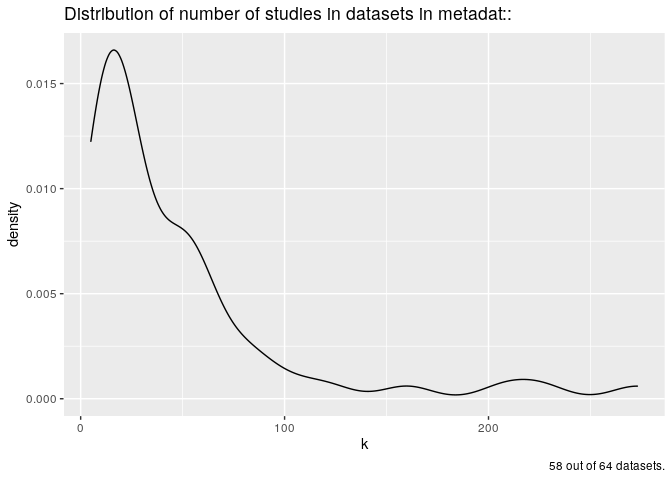
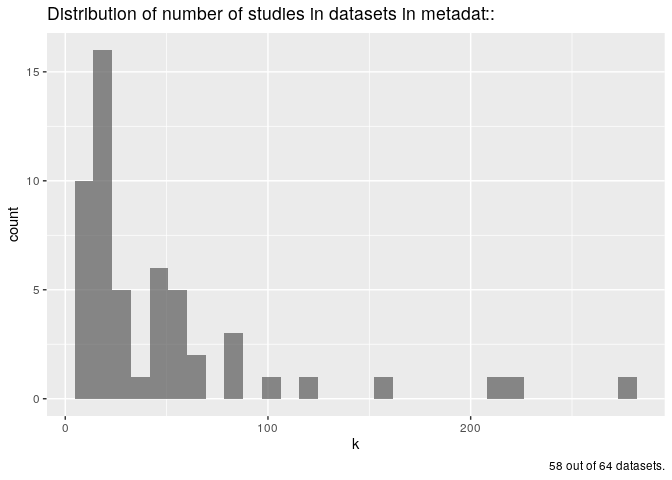
histogram sub

diff --git a/README.md b/README.md
@@ -37,12 +37,13 @@ plotdat <- md %>%
 # plot k
   plotdat %>% 
     ggplot(aes(x = k)) +
-  geom_density() +
+  geom_histogram(alpha = 0.7) +
   labs(title =  
   stringr::str_wrap("Distribution of number of studies in datasets in 
        metadat::", 80),
        caption = paste(nrow(plotdat), "out of", nrow(md), "datasets."))
-#> Warning: Removed 4 rows containing non-finite values (stat_density).
+#> `stat_bin()` using `bins = 30`. Pick better value with `binwidth`.
+#> Warning: Removed 4 rows containing non-finite values (stat_bin).
 ```
 
 <img src="man/figures/README-unnamed-chunk-3-1.png" width="100%" />
